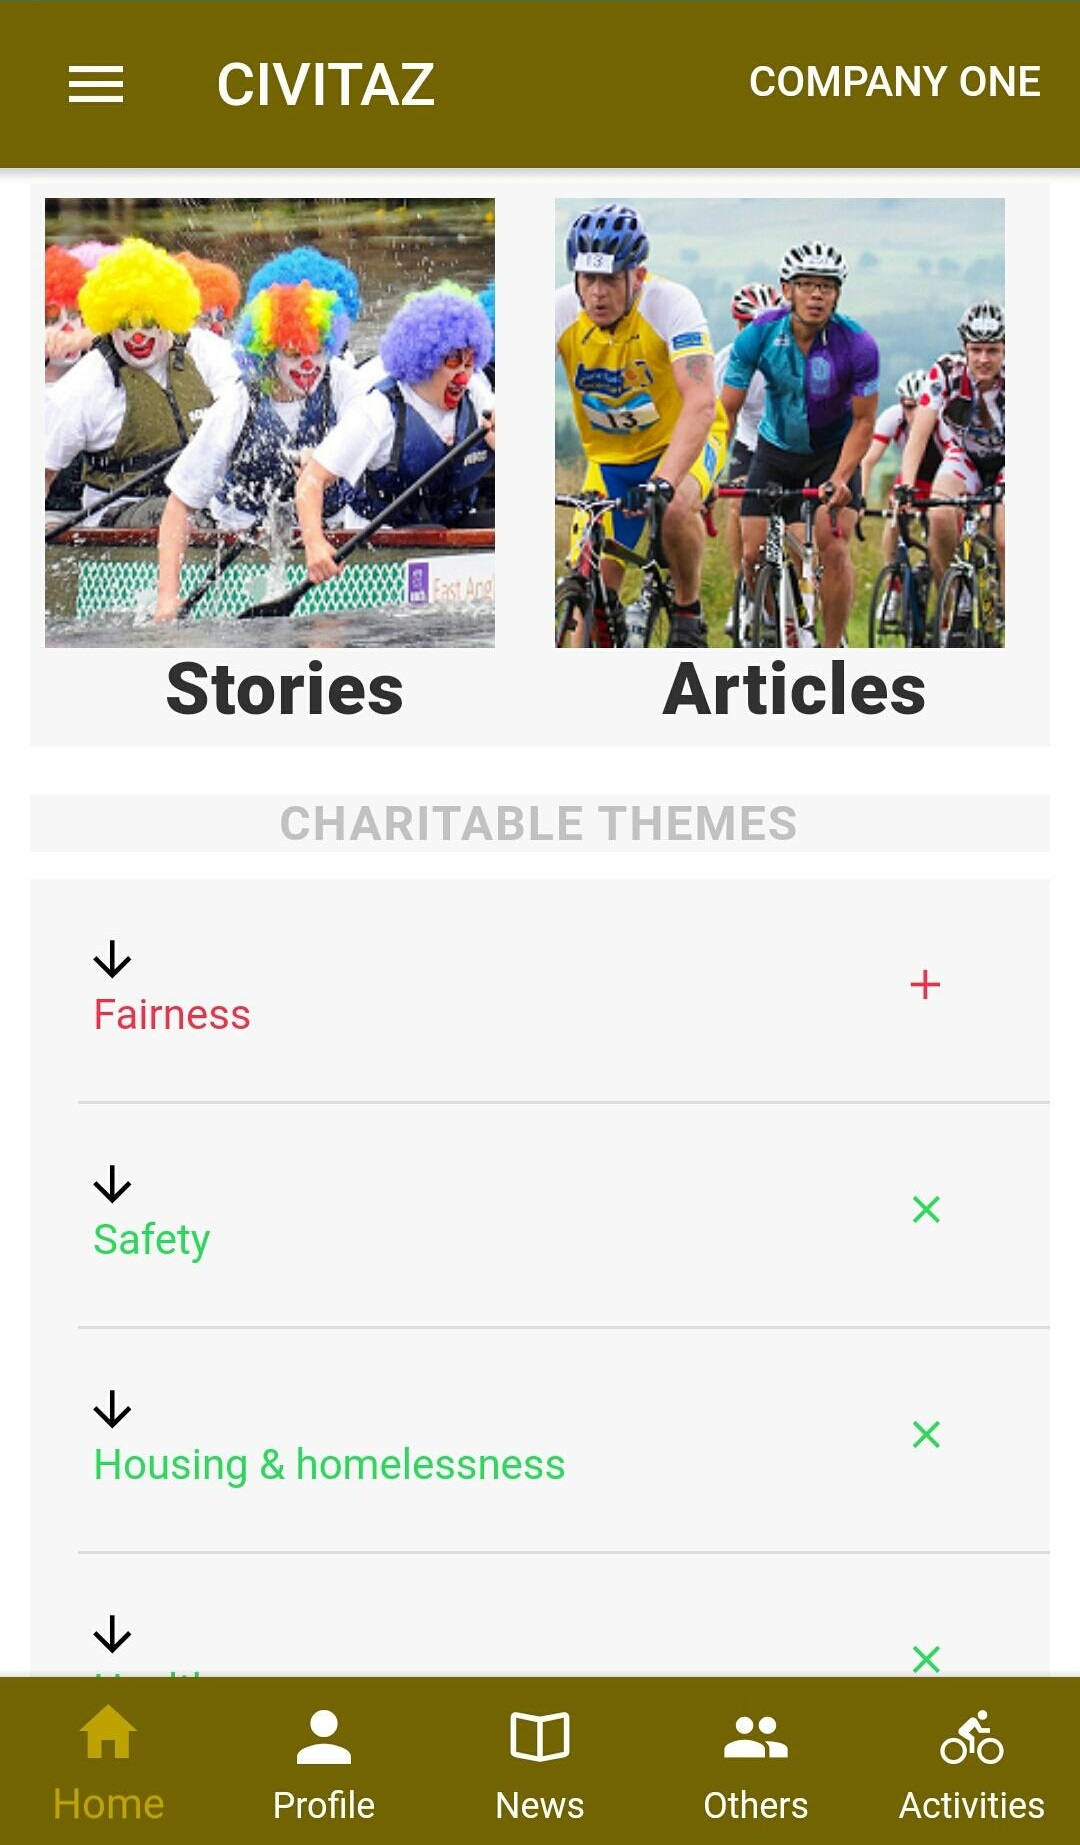
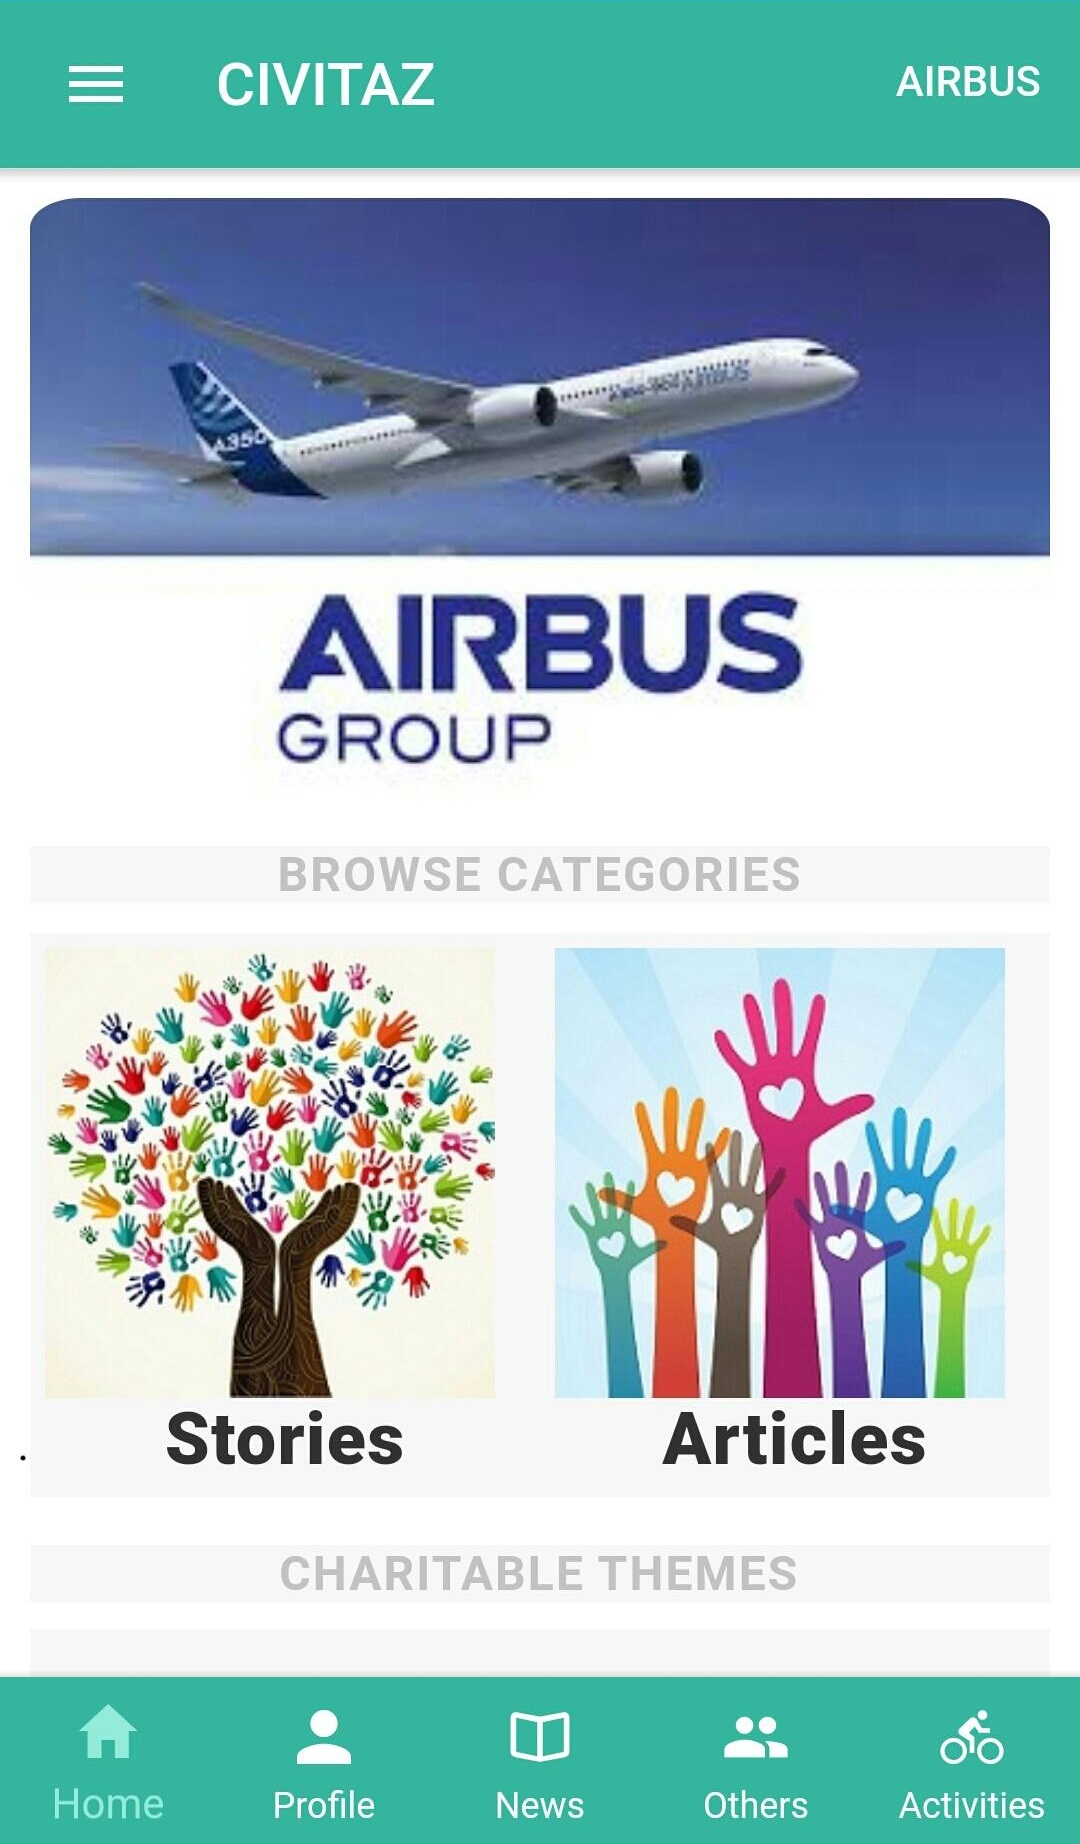
24-04-18

diff --git a/src/pages/walkthrough/walkthrough.ts b/src/pages/walkthrough/walkthrough.ts
@@ -84,9 +84,9 @@ export class WalkthroughPage {
         "description": "On Activities page users find approved activities list and can choose to see activity details by swiping list item to LEFT, join that activity or launch phone's navigation app pointing to address of that activity."
       },
       {
-        "title": "Activities Details",
-        "image": "./assets/images/activities_detail.jpg",
-        "description": "On Activities Details page users find details of selected activity. They can choose to Like or Join this activity."
+        "title": "Activity Results",
+        "image": "./assets/images/activityResults.jpg",
+        "description": "On Activity Results page users find results and feedback of selected activity."
       }
     ];
     this.items3 =[
@@ -96,10 +96,15 @@ export class WalkthroughPage {
           "description": "On Create Activity page users can create new activity which needs to be approved by their company's admin."
       },
       {
-          "title": "Join Activity",
-          "image": "./assets/images/join_activity.jpg",
-          "description": "On Join Activity page users can join activity by sending email to voluntering or go to assigned website to sponsorhip."
-      }
+          "title": "Close Activity",
+          "image": "./assets/images/closeActivity.jpg",
+          "description": "On Close Activity page users can close their own activity by providing its results and feedback."
+      },
+      {
+        "title": "FAQ",
+        "image": "./assets/images/faqs.jpg",
+        "description": "On FAQ page users can see FAQ by QCF or their own company."
+    }
     ];
   }
 /**

diff --git a/src/pages/edit-profile/edit-profile.ts b/src/pages/edit-profile/edit-profile.ts
@@ -32,6 +32,8 @@ import { Http } from '@angular/http';
 import { AuthenticationProvider } from '../../providers/authentication/authentication';
 import { ProfileService } from '../profile/profile.service';
 import { FilesProvider } from '../../providers/files/files';
+import { AppThemeColorProvider } from '../../providers/app-theme-color/app-theme-color';
+
 import { UserModel } from '../profile/profile.model';
 
 import { TabsNavigationPage } from '../tabs-navigation/tabs-navigation';
@@ -40,9 +42,6 @@ import { PrivacyPolicyPage } from '../privacy-policy/privacy-policy';
 import { ChangePasswordPage } from '../change-password/change-password';
 import { LoginPage } from '../login/login';
 import { AppColorThemePage } from '../app-color-theme/app-color-theme';
-
-import { AppThemeColorProvider } from '../../providers/app-theme-color/app-theme-color';
-
 
 import 'rxjs/Rx';
 
@@ -339,7 +338,7 @@ export class EditProfilePage {
                   mimeType: "image/jpeg",
                   headers: headers
                 }
-  
+                //Http upload request to API to upload image in database
                 fileTransfer.upload(imageURI, encodeURI('https://ionic2-qcf-auth.herokuapp.com/api/files/upload'), options,true)
                   .then((data) => {
                     let imageName = JSON.parse(data.response);

diff --git a/src/pages/success-stories/success-stories.ts b/src/pages/success-stories/success-stories.ts
@@ -110,7 +110,9 @@ export class SuccessStoriesPage {
                     for(let ts of this.themeIds){
                       if(ts===n.themeid){
                         n.displayImage = 'https://ionic2-qcf-auth.herokuapp.com/api/files/file/'+n.imagepath;
-                        
+                        if(n.imagepath===null || n.imagepath===undefined){
+                          n.displayImage =  './assets/images/noimage.jpeg';
+                        }
                         activeStories.push(n);      
                       }
                     }

diff --git a/src/pages/articles/articles.ts b/src/pages/articles/articles.ts
@@ -111,6 +111,9 @@ export class ArticlesPage {
                     for(let ts of this.themeIds){
                         if(ts===n.themeid){
                           n.displayImage = 'https://ionic2-qcf-auth.herokuapp.com/api/files/file/'+n.imagepath;
+                          if(n.imagepath===null || n.imagepath===undefined){
+                            n.displayImage =  './assets/images/noimage.jpeg';
+                          }
                           activeArticles.push(n);      
                         }
                     }

diff --git a/src/pages/news/news.ts b/src/pages/news/news.ts
@@ -89,6 +89,9 @@ export class NewsPage {
                 if(n.type==='News'){
                     
                     n.displayImage = 'https://ionic2-qcf-auth.herokuapp.com/api/files/file/'+n.imagepath;
+                    if(n.imagepath===null || n.imagepath===undefined){
+                      n.displayImage =  './assets/images/noimage.jpeg';
+                    }
                     activeNews.push(n);
                   }
               }

diff --git a/src/pages/listing/listing.ts b/src/pages/listing/listing.ts
@@ -144,11 +144,11 @@ export class ListingPage {
     this.categories =[
       {
           "title": "Stories",
-          "image": "./assets/images/listing/200x200basquet.png"
+          "image": "./assets/images/1.jpg"
       },
       {
           "title": "Articles",
-          "image": "./assets/images/listing/200x200boxeo.png"
+          "image": "./assets/images/2.jpg"
       }
     ];
     this.loading.dismiss();

diff --git a/src/pages/activities/activities.service.ts b/src/pages/activities/activities.service.ts
@@ -34,7 +34,7 @@ async getAllActivities() {
     this.storage.get('token').then((value) => {
 
       this.token = value;
-
+      
       this.profileService.getData().then(data => {
 
           let headers = new Headers();
